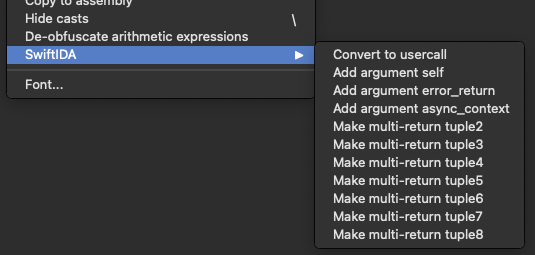
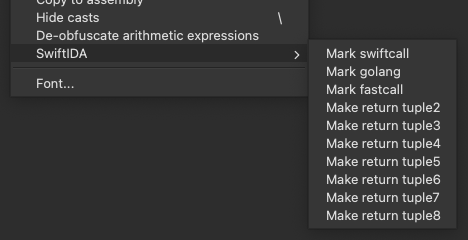
fix: rework to use built-in calling conventions

Changed region(s): [[0.0, 0.0, 0.9573, 0.9625], [0.0299, 0.2917, 0.5983, 0.4083], [0.5385, 0.0292, 0.5983, 0.0875]]

diff --git a/swift-ida.py b/swift-ida.py
@@ -1,18 +1,10 @@
 import ida_idaapi
 import ida_kernwin
-import ida_ida
 import ida_hexrays
 import idc
-import re
-
-# TODO: This is very rudimentary and prone to breakage, e.g. on lambda functions
-# Ideally, we would want to implement a proper C grammar
-func_regex = re.compile(r"^(.+?)(?:@<(.*?)>)?\((.+)?\)$")
 
 action_names = []
-arch_ret_regs = []
-arch_arg_regs = []
-arch_special_regs = []
+call_convs = ["swiftcall", "golang", "fastcall"]
 
 
 class SwiftIDA(ida_idaapi.plugin_t):
@@ -24,49 +16,25 @@ class SwiftIDA(ida_idaapi.plugin_t):
     dialog = None
 
     def init(self):
-        global action_names, arch_ret_regs, arch_arg_regs, arch_special_regs
+        global action_names, call_convs
 
-        arch_name: str = ida_ida.inf_get_procname()
-        if arch_name.lower() == "metapc" and ida_ida.inf_is_64bit():
-            # https://github.com/swiftlang/swift/blob/main/docs/ABI/CallConvSummary.rst#x86-64
-            arch_ret_regs = ["rax", "rdx", "rcx", "r8"]
-            arch_arg_regs = ["rdi", "rsi", "rdx", "rcx", "r8", "r9"]
-            arch_special_regs = ["r13", "r12", "r14"]
-        elif arch_name.lower() == "arm" and ida_ida.inf_is_64bit():
-            # https://github.com/swiftlang/swift/blob/main/docs/ABI/CallConvSummary.rst#arm64
-            arch_ret_regs = [f"x{j}" for j in range(8)]
-            arch_arg_regs = [f"x{j}" for j in range(8)]
-            arch_special_regs = [f"x{j}" for j in range(20, 23)]
-
-        if len(arch_ret_regs) == 0:
-            # unsupported arch
-            return ida_idaapi.PLUGIN_SKIP
-
-        action_name = f"SwiftIDA:convert_to_usercall"
-        action = ida_kernwin.action_desc_t(
-            action_name,
-            "Convert to usercall",
-            generic_handler(lambda ea: self.convert_to_usercall(ea)),
-        )
-        ida_kernwin.register_action(action)
-        action_names.append(action_name)
-
-        arg_names = {0: "self", 1: "error_return", 2: "async_context"}
-        for i in range(0, 3):
-            action_name = f"SwiftIDA:add_arg_{arg_names[i]}"
+        for call_conv in call_convs:
+            action_name = f"SwiftIDA:set_call_conv_{call_conv}"
             action = ida_kernwin.action_desc_t(
                 action_name,
-                f"Add argument {arg_names[i]}",
-                generic_handler(lambda ea, i=i: self.add_callee_arg(ea, i)),
+                f"Mark {call_conv}",
+                generic_handler(
+                    lambda ea, c=call_conv: self.convert_to_call_conv(ea, c)
+                ),
             )
             ida_kernwin.register_action(action)
             action_names.append(action_name)
 
-        for i in range(2, len(arch_ret_regs) + 1):
-            action_name = f"SwiftIDA:make_multi_{i}"
+        for i in range(2, 9):
+            action_name = f"SwiftIDA:make_multi_return_{i}"
             action = ida_kernwin.action_desc_t(
                 action_name,
-                f"Make multi-return tuple{i}",
+                f"Make return tuple{i}",
                 generic_handler(lambda ea, i=i: self.make_multi_return(ea, i)),
             )
             ida_kernwin.register_action(action)
@@ -78,44 +46,29 @@ class SwiftIDA(ida_idaapi.plugin_t):
         return ida_idaapi.PLUGIN_KEEP
 
     def parse_current_func_type(self, ea):
-        global func_regex, arch_arg_regs
         type: str = idc.get_type(ea)
         if type is None:
             ida_kernwin.warning("The selected item is not a function definition!")
             return None, None, None
         print(f">>>SwiftIDA: Original type: {type}")
 
-        match = func_regex.match(type)
+        base, args = type[:-1].split("(", 1)
 
-        base = match.group(1).split(" ")
-        for i in range(1, len(base)):
-            # [char, *_fastcall] -> [char*, _fastcall]
-            while base[i].startswith("*"):
-                base[i - 1] += "*"
-                base[i] = base[i][1:]
+        base_split = base.split(" ", 1)
+        ret_type = base_split[0]
 
-        ret_regs = [] if match.group(2) is None else match.group(2).split(", ")
-        if len(ret_regs) == 0 and base[0].lower() != "void":
-            ret_regs.append(f"0:{arch_ret_regs[0]}")
+        if len(base_split) == 2:
+            base = base_split[1]
+        else:
+            base = ""
 
-        args = [] if match.group(3) is None else match.group(3).split(", ")
-        if "__fastcall" in base:
-            args = [
-                f"{arg.split('@')[0]}@<{arch_arg_regs[i]}>"
-                for i, arg in enumerate(args)
-            ]
-        if "__swiftcall" in base:
-            raise Exception("__swiftcall not supported, remove it first")
+        return ret_type, base, args
 
-        for item in ["__fastcall", "__usercall"]:
-            if item in base:
-                base.remove(item)
+    def update_current_func_type(self, ea, ret_type: str, base: str, args: str):
 
-        return base, ret_regs, args
-
-    def update_current_func_type(self, ea, base, ret_regs, args):
-        ret_part = f"@<{', '.join(ret_regs)}>" if len(ret_regs) > 0 else ""
-        new_type = f"{' '.join(base)} __usercall func{ret_part}({', '.join(args)})"
+        new_type = " ".join(
+            part for part in [ret_type, base, f"func({args})"] if part != ""
+        )
         print(f">>>SwiftIDA: New type: {new_type}")
 
         result = idc.SetType(ea, new_type)
@@ -124,32 +77,22 @@ class SwiftIDA(ida_idaapi.plugin_t):
 
         print(f">>>SwiftIDA: Type changed successfully")
 
-    def add_callee_arg(self, ea, i: int) -> bool:
-        global arch_special_regs
+    def convert_to_call_conv(self, ea, call_conv) -> bool:
+        global call_convs
 
-        base, ret_regs, args = self.parse_current_func_type(ea)
-        if base is None or ret_regs is None or args is None:
+        ret_type, base, args = self.parse_current_func_type(ea)
+        if ret_type is None or base is None or args is None:
             return False
 
-        if not any(f"@<{arch_special_regs[i]}>" in arg for arg in args):
-            args.append(f"__int64@<{arch_special_regs[i]}>")
+        for item in call_convs:
+            base = base.replace("__" + item, "")
 
-        self.update_current_func_type(ea, base, ret_regs, args)
-        return True
+        base = " ".join(part for part in ["__" + call_conv, base] if part != "")
 
-    def convert_to_usercall(self, ea) -> bool:
-        global arch_ret_regs
-
-        base, ret_regs, args = self.parse_current_func_type(ea)
-        if base is None or ret_regs is None or args is None:
-            return False
-
-        self.update_current_func_type(ea, base, ret_regs, args)
+        self.update_current_func_type(ea, ret_type, base, args)
         return True
 
     def make_multi_return(self, ea, i: int) -> bool:
-        global arch_ret_regs
-
         struct_name = f"swiftida_tuple{i}"
         if idc.get_struc_id(struct_name) == idc.BADADDR:
             struct_id = idc.add_struc(-1, struct_name, 0)
@@ -157,15 +100,13 @@ class SwiftIDA(ida_idaapi.plugin_t):
                 idc.add_struc_member(struct_id, f"o{j}", -1, idc.FF_QWORD, -1, 8)
             print(f">>>SwiftIDA: Created struct {struct_name}")
 
-        base, ret_regs, args = self.parse_current_func_type(ea)
-        if base is None or ret_regs is None or args is None:
+        ret_type, base, args = self.parse_current_func_type(ea)
+        if ret_type is None or base is None or args is None:
             return False
 
-        base[0] = struct_name
+        ret_type = struct_name
 
-        ret_regs = [f"{j*8}:{arch_ret_regs[j]}" for j in range(i)]
-
-        self.update_current_func_type(ea, base, ret_regs, args)
+        self.update_current_func_type(ea, ret_type, base, args)
         return True
 
 
@@ -195,7 +136,7 @@ def generic_handler(callback):
                     else:
                         ea = vu.item.e.obj_ea
                 else:
-                    #TODO: Support call operand in disassembly view
+                    # TODO: Support call operand in disassembly view
                     ea = ida_kernwin.get_screen_ea()
 
                 result = callback(ea)

diff --git a/README.md b/README.md
@@ -1,11 +1,6 @@
 # SwiftIDA
 
-This is a simple plugin for IDA to aid with reverse engineering languages that have multiple return values and non-standard calling conventions. While IDA does not automatically detect such patterns, it allows you to implement them yourself using the `__usercall` calling convention. This plugin defines a set of shortcuts to easily change a function's signature and match Swift's calling convention. With minor changes, it should also work with Go, Rust, etc.
-
-## Supported architectures
-
-- arm64
-- x86_64
+This is a simple plugin for IDA to aid with reverse engineering languages that have multiple return values and non-standard calling conventions. It does this by defining a set of shortcuts to easily change a function's calling convention and make it return a multi-value tuple. Tested on Swift and Golang, but should work on many more languages too.
 
 ## Usage
 
@@ -38,3 +33,4 @@ Download `swift-ida.py` and drop it in your IDA's `plugins` folder. After that, 
 - https://github.com/swiftlang/swift/blob/main/docs/ABI/CallConvSummary.rst
 - https://hex-rays.com/blog/igors-tip-of-the-week-107-multiple-return-values
 - https://hex-rays.com/blog/igors-tip-of-the-week-51-custom-calling-conventions
+- https://docs.hex-rays.com/user-guide/user-interface/menu-bar/edit/functions#set-function-item-type
